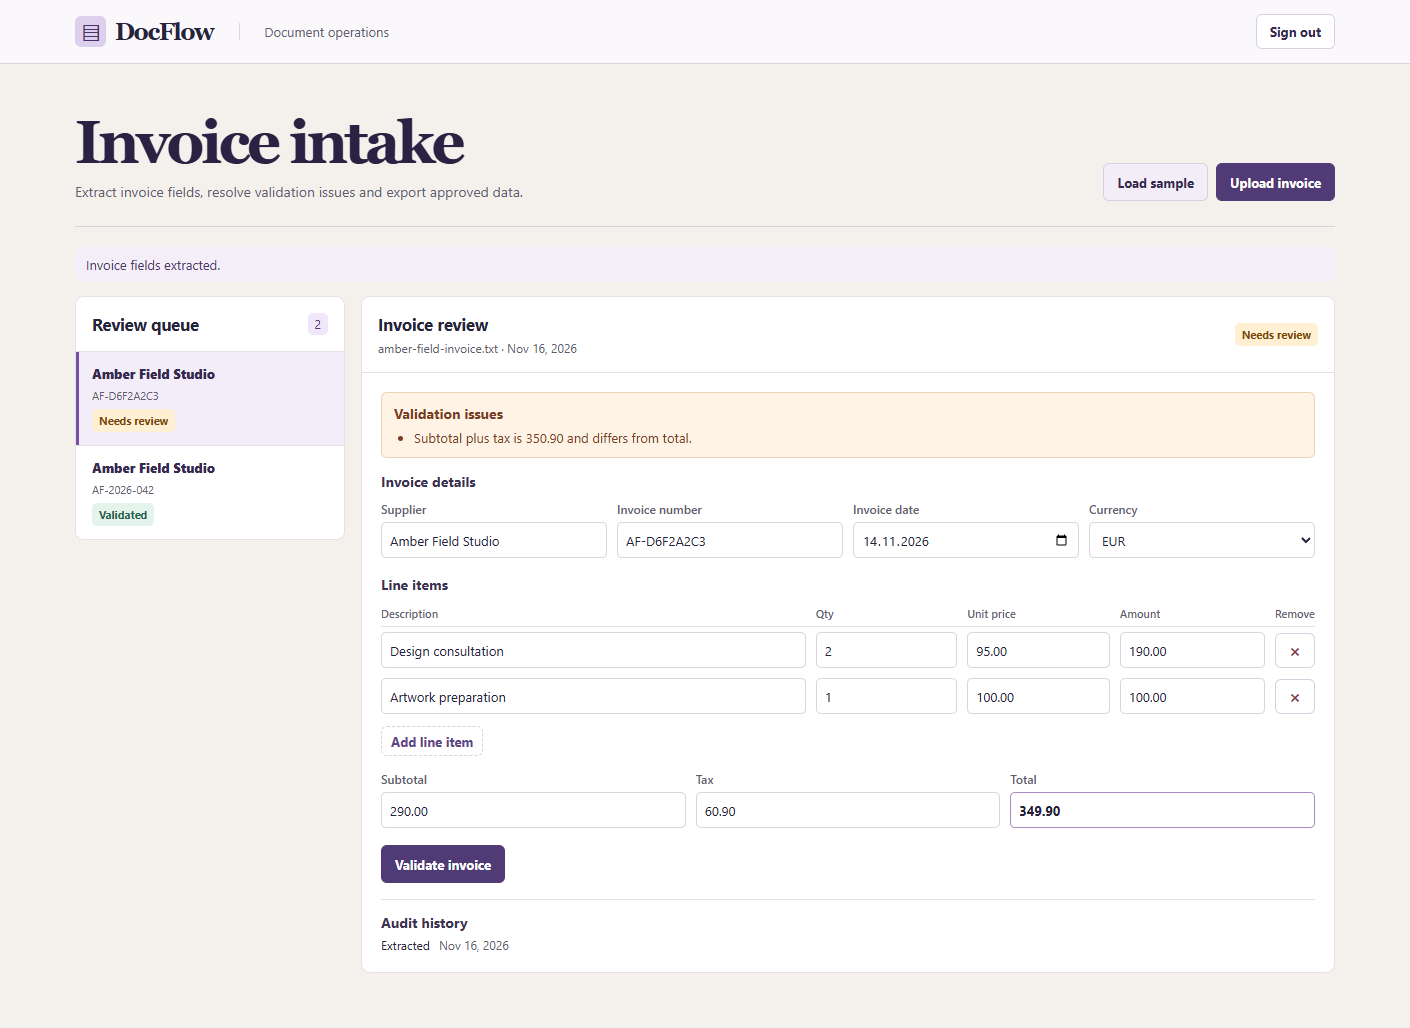
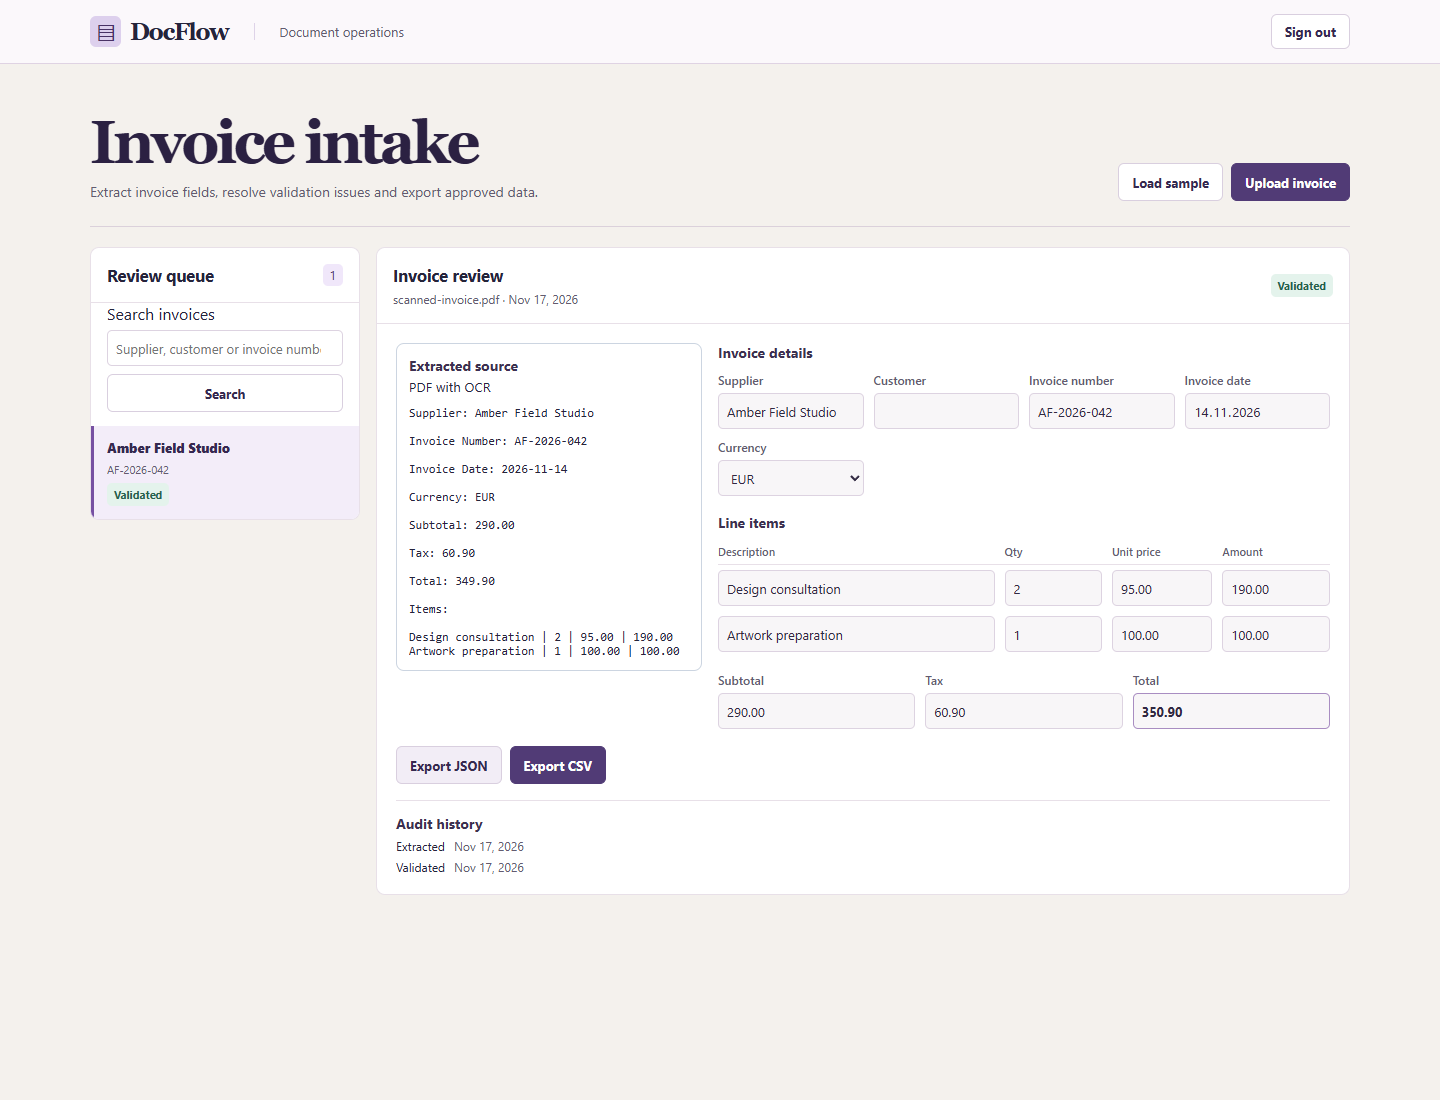
Verify complete scanned invoice and container workflows

diff --git a/scripts/smoke.py b/scripts/smoke.py
@@ -1,0 +1,55 @@
+"""Verify the local demo API, including real OCR and corrected exports."""
+
+import argparse
+import json
+import time
+from pathlib import Path
+from urllib.error import URLError
+from urllib.parse import urlparse
+from urllib.request import Request, urlopen
+
+
+def main() -> None:
+    parser = argparse.ArgumentParser()
+    parser.add_argument("--url", default="http://127.0.0.1:8012")
+    args = parser.parse_args()
+    origin = args.url.rstrip("/")
+    if urlparse(origin).hostname not in {"127.0.0.1", "localhost", "::1"}:
+        parser.error("The smoke test only accepts a local demo server.")
+
+    def call(path: str, data: bytes | None = None, **headers) -> bytes:
+        request = Request(origin + "/api/" + path, data=data,
+                          headers={"Authorization": "Bearer docflow-local-demo", **headers})
+        with urlopen(request, timeout=60) as response:
+            return response.read()
+
+    for attempt in range(30):
+        try:
+            call("health")
+            break
+        except URLError:
+            if attempt == 29:
+                raise
+            time.sleep(1)
+    scan = Path(__file__).resolve().parent.parent / "samples" / "scanned-invoice.pdf"
+    document = json.loads(call("documents", scan.read_bytes(), **{
+        "Content-Type": "application/pdf", "X-Filename": "scanned-invoice.pdf",
+    }))
+    path = "documents/" + document["id"]
+    assert json.loads(call(path + "/source"))["method"] == "ocr_pdf"
+    assert document["invoice"]["supplier"] == "Amber Field Studio"
+    assert len(document["invoice"]["items"]) == 2
+    if document["status"] == "needs_review":
+        assert document["warnings"] == ["Subtotal plus tax is 350.90 and differs from total."]
+        document["invoice"]["total"] = "350.90"
+        result = json.loads(call(path + "/review", json.dumps({
+            "version": document["version"], "invoice": document["invoice"],
+        }).encode(), **{"Content-Type": "application/json"}))
+        assert result["status"] == "validated"
+    assert json.loads(call(path + "/export"))["total"] == "350.90"
+    assert b"Design consultation" in call(path + "/export?format=csv")
+    print("PASS: native OCR upload, source preview, decimal correction, validation and JSON/CSV exports")
+
+
+if __name__ == "__main__":
+    main()

diff --git a/tests/test_documents.py b/tests/test_documents.py
@@ -10,8 +10,6 @@ from uuid import uuid4
 import httpx
 import pytest
 from fastapi.testclient import TestClient
-from PIL import Image, ImageDraw, ImageFont
-from reportlab.lib.utils import ImageReader
 from reportlab.pdfgen.canvas import Canvas
 from sqlalchemy import create_engine
 from sqlalchemy.engine import make_url
@@ -24,6 +22,7 @@ from document_flow.model import ReviewModel
 from document_flow.ocr import TesseractOcr
 from document_flow.parser import MAX_BYTES, ParseError, decode_source
 from document_flow.storage import Document
+from samples.generate_scan import scanned_pdf
 
 token = "document-operator".ljust(35, "x")
 auth = {"Authorization": f"Bearer {token}"}
@@ -237,18 +236,6 @@ def test_populates_identity_for_legacy_documents():
             assert client.get(f"/api/documents/{identifier}/source", headers=auth).json()["text"] is None
 
 
-def scanned_pdf() -> bytes:
-    image = Image.new("RGB", (1200, 400), "white")
-    draw = ImageDraw.Draw(image)
-    draw.multiline_text((35, 25), "Supplier: Example Studio\nInvoice Number: ST-0042\nTotal: 349.00",
-                        fill="black", font=ImageFont.load_default(size=44), spacing=18)
-    target = BytesIO()
-    pdf = Canvas(target)
-    pdf.drawImage(ImageReader(image), 40, 540, width=515, height=172)
-    pdf.save()
-    return target.getvalue()
-
-
 def test_ocr_boundary_for_image_only_document():
     class LocalOcr:
         def read_pages(self, _pdf: bytes, pages: list[int]) -> dict[int, str]:
@@ -271,9 +258,11 @@ def test_real_ocr_synthetic_scan():
     extracted = decode_source(scanned_pdf(), "application/pdf", TesseractOcr.configure("pdftoppm", "tesseract", "eng"))
     invoice = extract_invoice(extracted.text)
     assert extracted.method == "ocr_pdf"
-    assert invoice.supplier == "Example Studio"
-    assert invoice.invoice_number == "ST-0042"
-    assert invoice.model_dump(mode="json")["total"] == "349.00"
+    assert invoice.supplier == "Amber Field Studio"
+    assert invoice.invoice_number == "AF-2026-042"
+    assert invoice.model_dump(mode="json")["total"] == "349.90"
+    assert len(invoice.items) == 2
+    assert review_issues(invoice) == ["Subtotal plus tax is 350.90 and differs from total."]
 
 
 def test_structured_model_never_replaces_confirmed_or_invents_absent_values(monkeypatch: pytest.MonkeyPatch):

diff --git a/samples/generate_scan.py b/samples/generate_scan.py
@@ -1,0 +1,27 @@
+"""Generate an image-only invoice; requires the development dependencies."""
+
+from io import BytesIO
+from pathlib import Path
+
+from PIL import Image, ImageDraw, ImageFont
+from reportlab.lib.utils import ImageReader
+from reportlab.pdfgen.canvas import Canvas
+
+
+def scanned_pdf() -> bytes:
+    source = Path(__file__).with_name("invoice.txt").read_text(encoding="utf-8")
+    image = Image.new("RGB", (1600, 1200), "white")
+    ImageDraw.Draw(image).multiline_text(
+        (40, 35), source, fill="black", font=ImageFont.load_default(size=44), spacing=20,
+    )
+    target = BytesIO()
+    pdf = Canvas(target)
+    pdf.drawImage(ImageReader(image), 35, 330, width=525, height=394)
+    pdf.save()
+    return target.getvalue()
+
+
+if __name__ == "__main__":
+    destination = Path(__file__).with_name("scanned-invoice.pdf")
+    destination.write_bytes(scanned_pdf())
+    print(destination)

diff --git a/README.md b/README.md
@@ -17,9 +17,11 @@ Copy-Item .env.example .env
 .venv/Scripts/python -m uvicorn document_flow.app:from_env --factory --env-file .env --host 127.0.0.1 --port 8012
 ```
 
-On Linux and macOS, use `.venv/bin/python` and `cp .env.example .env`. For frontend development, run the backend and `npm --prefix web run dev`. Vite proxies the API to port 8012.
+On Linux and macOS, use `.venv/bin/python` and `cp .env.example .env`. For frontend development, run the backend and `npm --prefix web run dev`. The loopback development server at port 5173 rebuilds changed assets and proxies the API to port 8012; refresh the browser after edits. Production assets are built with esbuild and strict TypeScript checking.
 
 Open [http://127.0.0.1:8012](http://127.0.0.1:8012) and choose **Load sample**. The invoice has a deliberate total error. Set **Total** to `350.90`, select **Validate invoice**, and download either export. The same [sample file](samples/invoice.txt) can be uploaded manually.
+
+For a real OCR demonstration, install Poppler and Tesseract with English data, set `OCR_ENABLED=true`, and restart the backend. On Windows, use the installer linked by the [Tesseract installation documentation](https://tesseract-ocr.github.io/tessdoc/Installation.html) and configure `OCR_RENDERER` and `OCR_RECOGNIZER` when the executables are not on PATH. Run `python samples/generate_scan.py` with the development dependencies, then upload `samples/scanned-invoice.pdf`. This file has an image only, with no selectable text. Compare the OCR values, correct **Total** from `349.90` to `350.90`, validate and export from the browser.
 
 ## API
 
@@ -48,6 +50,8 @@ The document endpoints require an operator bearer token. The local demo uses `do
 
 To run with Compose, add a URL-safe random `DOCFLOW_DB_PASSWORD` to `.env` and run `docker compose up --build`. The app is exposed on loopback. For external access, use TLS and request limits at the reverse proxy.
 
+With a local demo server and OCR enabled, `python scripts/smoke.py` uploads the generated scan and verifies correction plus both export formats. CI runs the same check inside the built Docker image on an isolated loopback port. The script accepts loopback destinations only and uses the public demo token.
+
 ## Verification
 
 ```sh
@@ -58,7 +62,7 @@ python -m pip_audit -r requirements-dev.txt
 npm --prefix web audit --audit-level=moderate
 ```
 
-The default tests use temporary SQLite databases and generate synthetic digital and image-only PDFs in memory. Tests compare expected fields and validation results over three layouts. The real OCR test checks three fields from a rendered synthetic scan. Install Poppler and the Tesseract English language pack to run it locally. GitHub Actions installs both tools and requires the OCR test while running against PostgreSQL 17. Set `DOCFLOW_TEST_DATABASE_URL` to a dedicated PostgreSQL test database with permission to create schemas to run the same cases on a server.
+The default tests use temporary SQLite databases and generate synthetic digital and image-only PDFs in memory. Tests compare expected fields and validation results over three layouts. The real OCR test reads a complete generated scan, including two line items and the expected total mismatch. Install Poppler and the Tesseract English language pack to run it locally. GitHub Actions installs both tools and requires the OCR test while running against PostgreSQL 17. Set `DOCFLOW_TEST_DATABASE_URL` to a dedicated PostgreSQL test database with permission to create schemas to run the same cases on a server.
 
 ## Scope and original work
 
